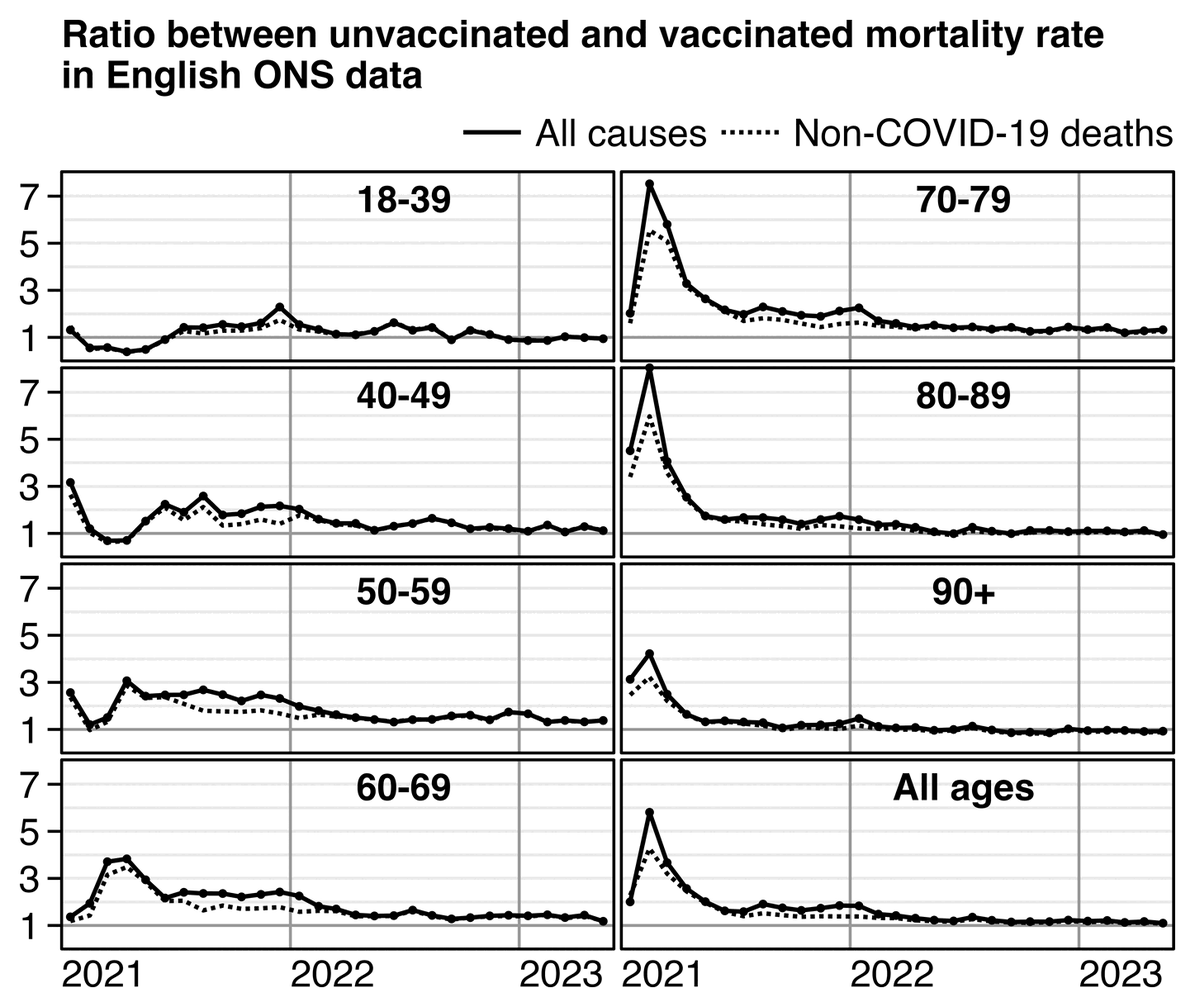
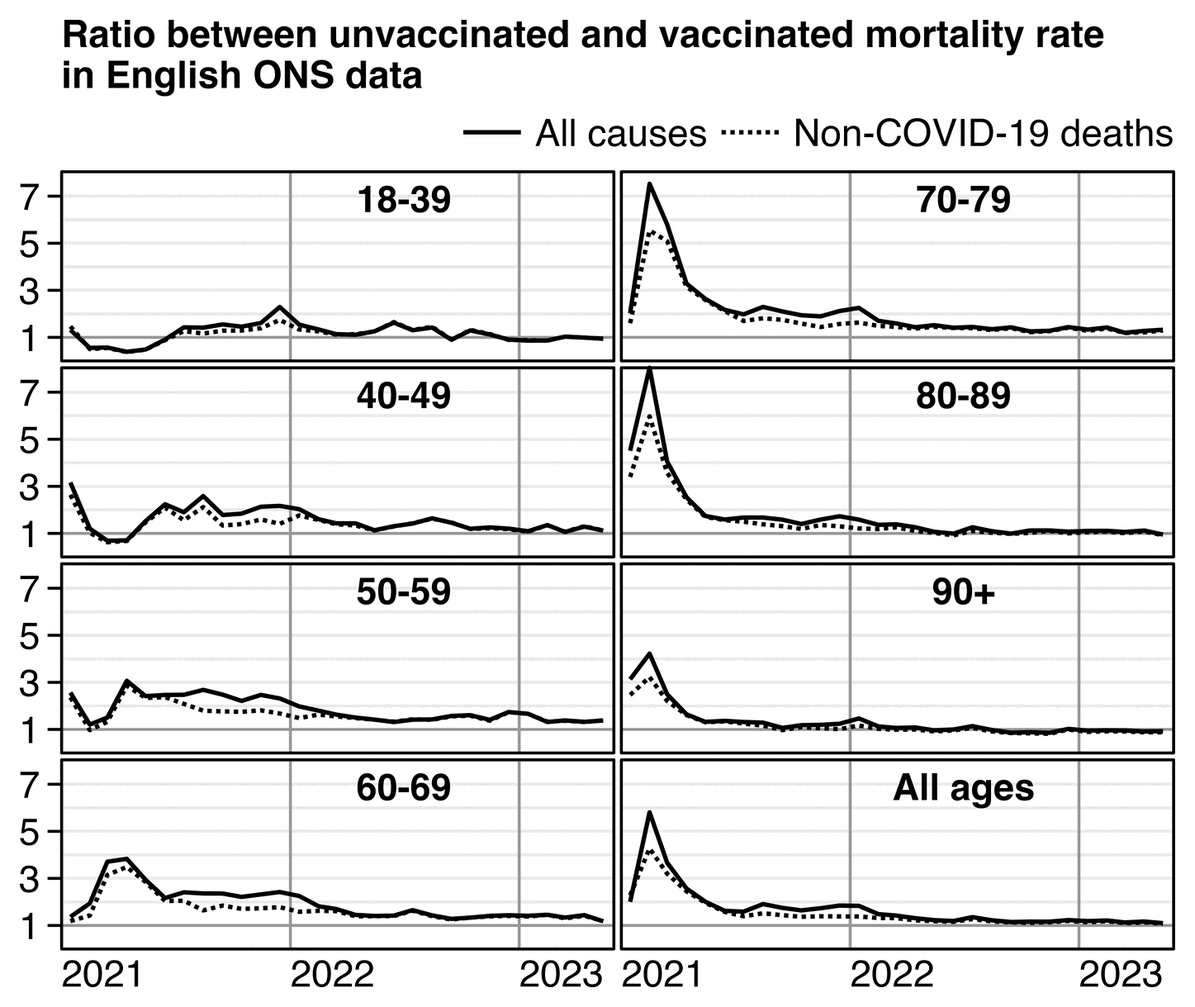
a

diff --git a/rootclaim4.html b/rootclaim4.html
@@ -1,0 +1,254 @@
+<!doctype html>
+<meta charset=utf-8>
+<style>
+body{background:#2f2f2f;color:white;margin:6px 6px 6px max(6px, min(50vw - 270px, 100vw - 1100px))}
+body,td,th{font:14.5px/1.3 Arial,Helvetica,'Liberation Sans',sans-serif}
+p{max-width:540px}
+ul,ol{max-width:500px}
+.toc{max-width:none}
+h1,h2,h3,h2 a,h3 a,h2 a:visited,h3 a:visited{font-weight:normal;color:white}
+h1{font-size:2.1em;margin-top:.9em}
+h2{font-size:1.7em}
+h3{font-size:1.3em}
+h4{font-size:1.1em}
+a{color:hsl(220,100%,75%)}
+a:visited{color:hsl(270,100%,75%)}
+pre,code{white-space:pre-wrap;word-wrap:break-word;font:14px Menlo,'DejaVu Sans Mono','Liberation Mono',Consolas,monospace;background:#4a4a4a;color:white}
+pre{padding:4px}
+code{padding:1px}
+table{border-collapse:collapse}
+td,th{border:1px solid #555;padding:2px 4px}
+th{background:#444;text-align:left;font-weight:bold}
+img{max-width:100%}
+blockquote{margin:0;padding-left:40px;margin-right:0;overflow-x:hidden}
+blockquote p{max-width:480px}
+blockquote p:first-child{margin-top:0}
+blockquote p:last-child{margin-bottom:0}
+blockquote blockquote p{max-width:440px}
+blockquote blockquote blockquote p{max-width:400px}
+blockquote,.quote,blockquote h1,blockquote h2,blockquote h3{color:hsl(50,100%,85%)}
+blockquote .quote,blockquote blockquote,.quote .quote{color:hsl(45,55%,65%)}
+blockquote blockquote blockquote,blockquote blockquote .quote,blockquote .quote .quote,.quote .quote .quote{color:hsl(40,40%,50%)}
+.spoiler button{width:90px;border:0;font-family:inherit;font-size:inherit;color:inherit;margin:0;background:#4a4a4a;padding:4px 0px;outline:none;cursor:pointer}
+.spoiler pre{display:none;margin-top:0}
+.red,.red .quote{color:hsl(0,100%,77%)!important}
+.comment{color:hsl(0,100%,80%) !important}
+.width1{max-width:100px}
+.width2{max-width:200px}
+.width3{max-width:300px}
+.width4{max-width:400px}
+.width5{max-width:500px}
+.width6{max-width:600px}
+.width7{max-width:700px}
+.width8{max-width:800px}
+.width9{max-width:900px}
+.width10{max-width:1000px}
+.width11{max-width:1100px}
+.width12{max-width:1200px}
+.width13{max-width:1300px}
+.width14,.width0{max-width:1400px}
+.width00{margin-left:calc(-1 * max(0px, min(50vw - 270px, 100vw - 1100px)) + 6px)}
+.width00 img,.width0 img{margin:0 -1.5px -1.5px 0;vertical-align:bottom}
+.blockimg{max-width:calc(100vw - min(50vw - 270px, 100vw - 1100px) - 40px - 6px)}
+@media print{
+  body{background:white;color:black;margin:0px;zoom:1;print-color-adjust:exact;-webkit-print-color-adjust:exact}
+  a{color:#0000EE}a:visited{color:#551A8B}
+  h1,h2,h2 a,h3 a,h2 a:visited,h3 a:visited{color:black}
+  pre,code{background:#ccc;color:black;font-size:13px}
+  th{background:#ddd}
+  blockquote,.quote{color:hsl(30,65%,30%)}
+  blockquote .quote,blockquote blockquote,.quote .quote{color:hsl(30,45%,50%)}
+  blockquote blockquote blockquote,blockquote .quote .quote,.quote .quote .quote{color:hsl(30,70%,60%)}
+  .spoiler{display:none}
+}
+</style>
+<title>Rootclaim vaccine debate between Steve Kirsch and Saar Wilf (part 4)</title>
+<h1>Rootclaim vaccine debate between Steve Kirsch and Saar Wilf (part 4) - <a href=index.html>sars2.net</a></h1>
+<p>Other parts: <a href=rootclaim.html>rootclaim.html</a>, <a href=rootclaim2.html>rootclaim2.html</a>, <a href=rootclaim3.html>rootclaim3.html</a>.</p>
+<h2 id=Contents><a href=#Contents>Contents</a></h2>
+<ul class=toc>
+<li><a href=#Ratio_between_unvaccinated_and_vaccinated_ASMR_in_ONS_data>Ratio between unvaccinated and vaccinated ASMR in ONS data</a></li>
+</ul>
+
+<h2>
+<a href=#Ratio_between_unvaccinated_and_vaccinated_ASMR_in_ONS_data id=Ratio_between_unvaccinated_and_vaccinated_ASMR_in_ONS_data>Ratio between unvaccinated and vaccinated ASMR in ONS data</a>
+</h2>
+<p>Kirsch posted this table of the English ONS data, where he pointed out that in April to May 2021 when there was a low number of COVID cases, the ratio between unvaccinated and vaccinated ASMR was higher than in December 2021 to February 2022 when there was a high number of COVID cases: [<a href="https://kirschsubstack.com/p/official-uk-ons-data-shows-the-covid">https://kirschsubstack.com/p/official-uk-ons-data-shows-the-covid</a>]</p>
+<div class="width7">
+<img src="i/rootclaim-onsrate-1.png">
+</div>
+<p>However in April to May 2021 there were still many people who had been recently vaccinated, so vaccinated people were still heavily impacted by the temporal healthy vaccinee effect (which is a term coined by Jeffrey Morris for the stronger form of HVE which lasts for the first weeks or months after vaccination, as opposed to the inherent HVE that remains in place even long after vaccination).</p>
+<p>From the plot below you can roughly see the magnitude of the HVE from the dashed line which shows non-COVID ASMR. The plot below also shows that the ratio between unvaccinated and vaccinated ASMR was in fact elevated during the Delta peak in August 2021 and the COVID wave that peaked in December 2021 to January 2022. But in October 2021 when there was a lower number of COVID deaths than in the surrounding months, the ratio between unvaccinated and vaccinated ASMR was also lower than in the surrounding months:</p>
+<div class="width6">
+<img src="i/rootclaim-czechrate-6.png">
+</div>
+<div class="spoiler">
+<button>
+Show code
+</button>
+<pre>t=fread(&quot;http://sars2.net/f/ons.csv&quot;)
+t=rbind(t[ed==7&amp;month&lt;=&quot;2021-03&quot;],t[ed==9])[cause!=&quot;Deaths involving COVID-19&quot;]
+
+t[,x:=as.Date(paste0(month,&quot;-15&quot;))]
+t[,vax:=factor(status!=&quot;Unvaccinated&quot;,,c(&quot;Unvaccinated&quot;,&quot;Vaccinated&quot;))]
+a=t[age!=&quot;Total&quot;,.(cmr=sum(dead)/sum(pop)),.(age,vax,x,cause)]
+
+p=a[,.(y=cmr[1]/cmr[2]),.(age,x,cause)]
+p=rbind(p,t[age==&quot;Total&quot;&amp;status%like%&quot;accin&quot;,.(y=asmr[1]/asmr[2],age=&quot;All ages&quot;),.(x,cause)])
+
+xstart=as.Date(&quot;2021-1-1&quot;);xend=as.Date(&quot;2023-6-1&quot;);xbreak=seq(xstart,xend,&quot;year&quot;);yend=max(p$y)
+
+ggplot(p)+
+facet_wrap(~age,dir=&quot;v&quot;,ncol=2)+
+geom_hline(yintercept=2:8,color=&quot;gray91&quot;,linewidth=.4)+
+geom_hline(yintercept=1,color=&quot;gray60&quot;,linewidth=.4)+
+geom_vline(xintercept=seq(xstart,xend,&quot;year&quot;),color=&quot;gray60&quot;,linewidth=.4)+
+geom_rect(data=p[,max(y),age],aes(xmin=xstart,xmax=xend,ymin=0,ymax=yend),linewidth=.4,fill=NA,color=&quot;black&quot;,lineend=&quot;square&quot;)+
+geom_line(aes(x,y,linetype=cause),linewidth=.6)+
+geom_text(data=p[,max(y),age],aes(x=as.Date(&quot;2022-7-1&quot;),y=yend,label=age),hjust=.5,fontface=2,vjust=1.5,size=3.8)+
+labs(x=NULL,y=NULL,title=&quot;Ratio between unvaccinated and vaccinated mortality rate\nin English ONS data&quot;)+
+scale_x_continuous(limits=c(xstart-.5,xend+.5),breaks=xbreak,labels=year(xbreak))+
+scale_y_continuous(breaks=seq(1,7,2))+
+scale_linetype_manual(values=c(&quot;solid&quot;,&quot;11&quot;))+
+scale_alpha_manual(values=c(1,0),guide=&quot;none&quot;)+
+coord_cartesian(clip=&quot;off&quot;,expand=F)+
+guides(color=guide_legend(order=1),linetype=guide_legend(order=2))+
+theme(axis.text=element_text(hjust=0,size=11,color=&quot;black&quot;),
+  axis.title=element_text(size=11,face=2),
+  axis.text.x=element_text(margin=margin(3)),
+  axis.ticks=element_line(linewidth=.4,color=&quot;black&quot;),
+  axis.ticks.length.x=unit(0,&quot;pt&quot;),
+  axis.ticks.length.y=unit(4,&quot;pt&quot;),
+  legend.background=element_blank(),
+  legend.box.spacing=unit(0,&quot;pt&quot;),
+  legend.direction=&quot;horizontal&quot;,
+  legend.justification=&quot;right&quot;,
+  legend.key=element_blank(),
+  legend.key.height=unit(13,&quot;pt&quot;),
+  legend.key.width=unit(21,&quot;pt&quot;),
+  legend.margin=margin(,,5),
+  legend.position=&quot;top&quot;,
+  legend.spacing.x=unit(2,&quot;pt&quot;),
+  legend.spacing.y=unit(0,&quot;pt&quot;),
+  legend.text=element_text(size=11,vjust=.5),
+  legend.title=element_blank(),
+  panel.background=element_blank(),
+  panel.spacing=unit(2,&quot;pt&quot;),
+  plot.margin=margin(5,5,5,5),
+  plot.title=element_text(size=11,face=2,margin=margin(2,,4)),
+  strip.background=element_blank(),
+  strip.text=element_blank())
+ggsave(&quot;1.png&quot;,width=4.8,height=4.1,dpi=300*4)
+system(paste0(&quot;magick 1.png -trim -resize 25% -bordercolor white -border 24 -colors 256 1.png&quot;))</pre>
+</div>
+<p>The next plot shows that there was a period with elevated COVID deaths that lasted from around August 2021 until January 2022. But between January and February 2022 when there was a big drop in COVID deaths, there was also a clear drop in the ratio of all-cause ASMR between unvaccinated and vaccinated people:</p>
+<div class="width6">
+<img src="i/rootclaim-czechrate-5.png">
+</div>
+<div class="spoiler">
+<button>
+Show code
+</button>
+<pre>library(data.table);library(ggplot2)
+
+t=fread(&quot;http://sars2.net/f/ons.csv&quot;)
+t=rbind(t[ed==7&amp;month&lt;=&quot;2021-03&quot;],t[ed==9])
+t[,x:=as.Date(paste0(month,&quot;-15&quot;))]
+t[,vax:=factor(status!=&quot;Unvaccinated&quot;,,c(&quot;Unvaccinated&quot;,&quot;Vaccinated&quot;))]
+a=t[age!=&quot;Total&quot;,.(y=sum(dead)/sum(pop)*1e5),.(age,x,vax,cause)]
+a=rbind(a,t[age==&quot;Total&quot;&amp;status%like%&quot;accin&quot;,.(x,y=asmr,age=&quot;All ages&quot;,vax,cause)])
+
+p=a[cause!=&quot;Non-COVID-19 deaths&quot;]
+p[cause==&quot;Deaths involving COVID-19&quot;,cause:=&quot;COVID deaths&quot;]
+
+xstart=as.Date(&quot;2021-1-1&quot;);xend=as.Date(&quot;2023-6-1&quot;);xbreak=seq(xstart,xend,&quot;year&quot;)
+
+ggplot(p)+
+facet_wrap(~age,dir=&quot;v&quot;,scales=&quot;free_y&quot;,ncol=2)+
+geom_vline(xintercept=seq(xstart,xend,&quot;year&quot;),color=&quot;gray60&quot;,linewidth=.4)+
+geom_rect(data=p[,max(y),age],aes(xmin=xstart,xmax=xend,ymin=0,ymax=V1),linewidth=.4,fill=NA,color=&quot;black&quot;,lineend=&quot;square&quot;)+
+geom_line(aes(x,y,linetype=cause,color=vax))+
+geom_text(data=p[,max(y),age],aes(x=as.Date(&quot;2022-7-1&quot;),y=V1,label=age),hjust=.5,fontface=2,vjust=1.5,size=3.8)+
+labs(x=NULL,y=NULL,title=&quot;Monthly mortality rates in English ONS data&quot;)+
+scale_x_continuous(limits=c(xstart-.5,xend+.5),breaks=xbreak,labels=year(xbreak))+
+scale_y_continuous(breaks=\(x){y=pretty(x,4);y[y&lt;.85*max(x)]},labels=\(x)ifelse(x&lt;1000,x,paste0(x/1e3,&quot;k&quot;)))+
+scale_color_manual(values=c(&quot;#66f&quot;,&quot;#f66&quot;,&quot;black&quot;))+
+scale_linetype_manual(values=c(&quot;solid&quot;,&quot;11&quot;))+
+scale_alpha_manual(values=1:0)+
+coord_cartesian(clip=&quot;off&quot;,expand=F)+
+guides(color=guide_legend(order=1),linetype=guide_legend(order=2))+
+theme(axis.text=element_text(hjust=0,size=11,color=&quot;black&quot;),
+  axis.title=element_text(size=11,face=2),
+  axis.text.x=element_text(margin=margin(3)),
+  axis.ticks=element_line(linewidth=.4,color=&quot;black&quot;),
+  axis.ticks.length.x=unit(0,&quot;pt&quot;),
+  axis.ticks.length.y=unit(4,&quot;pt&quot;),
+  legend.background=element_rect(color=&quot;black&quot;,linewidth=.4),
+  legend.box.margin=margin(,,2),
+  legend.box.spacing=unit(0,&quot;pt&quot;),
+  legend.direction=&quot;horizontal&quot;,
+  legend.justification=&quot;right&quot;,
+  legend.key=element_blank(),
+  legend.key.height=unit(13,&quot;pt&quot;),
+  legend.key.width=unit(21,&quot;pt&quot;),
+  legend.margin=margin(3,4,3,3),
+  legend.position=&quot;top&quot;,
+  legend.spacing.x=unit(2,&quot;pt&quot;),
+  legend.spacing.y=unit(0,&quot;pt&quot;),
+  legend.text=element_text(size=11,vjust=.5),
+  legend.title=element_blank(),
+  panel.background=element_blank(),
+  panel.spacing=unit(2,&quot;pt&quot;),
+  plot.margin=margin(5,5,5,5),
+  plot.title=element_text(hjust=.5,size=11,face=2,margin=margin(2,,4)),
+  strip.background=element_blank(),
+  strip.text=element_blank())
+ggsave(&quot;1.png&quot;,width=5.47,height=4.3,dpi=300*4)
+
+sub=&quot;The values for individual age groups are crude mortality rates per 100,000 person-years, and the values for all ages are age-standardized mortality rates per 100,000 person-years. The data was taken from Tables 1 and 2 of the ONS dataset \&quot;Deaths involving COVID-19 by vaccination status, England\&quot;. Data for the first three months of 2021 was taken from the July 2022 edition and data for other months was taken from the August 2023 edition. People are counted as vaccinated on the day of the first dose. COVID deaths are deaths where COVID was mentioned anywhere on the death certificate.&quot;
+system(paste0(&quot;mogrify -trim 1.png;magick 1.png \\( -size `identify -format %w 1.png`x -font Arial -interline-spacing -3 -pointsize $[43*4] caption:&#39;&quot;,gsub(&quot;&#39;&quot;,&quot;&#39;\\\\&#39;&quot;,sub),&quot;&#39; -splice x80 \\) -append -resize 25% -bordercolor white -border 24 -colors 256 1.png&quot;))</pre>
+</div>
+<p>Someone in Kirsch's Substack comments asked why February 2021 was an outlier in Kirsch's table, because in his table the ratio between unvaccinated and vaccinated ASMR was about 2.0 in January 2021, 5.8 in February, 3.7 in March, and 2.6 in April. I pointed out that in February a large part of vaccinated people had been vaccinated in recent weeks, and the ONS dataset has a very low number of deaths in the first 2 weeks after vaccination: [<a href=stat.html#Plot_deaths_by_weeks_after_vaccination_and_age_group>stat.html#Plot_deaths_by_weeks_after_vaccination_and_age_group</a>]</p>
+<div class="width8">
+<img src="i/stat-onsweeks.png">
+</div>
+<p>I also pointed out that there was high COVID mortality in both January and February 2021. In January 2021 COVID ASMR accounted for about half of total ASMR in both unvaccinated and vaccinated people, but in February COVID ASMR now accounted for about 41% of total ASMR in unvaccinated people but only about 20% of total ASMR in vaccinated people, so vaccinated people had a much bigger drop in the percentage between January and February. I think it's because in Janury 2021 many vaccinated people had been vaccinated so recently that there had not yet been enough time for the immune response to build up after vaccination. But in February 2021 a larger part of vaccinated people had been vaccinated at least 2 or 3 weeks ago so the vaccines were now more effective. So the COVID deaths increased the ratio between unvaccinated and vaccinated ASMR more in February than January:</p>
+<pre>ons=fread(&quot;https://sars2.net/f/ons.csv&quot;)[ed==7&amp;age==&quot;Total&quot;]
+o=ons[status%like%&quot;accin&quot;,asmr[cause==&quot;Deaths involving COVID-19&quot;]/asmr[cause==&quot;All causes&quot;]*100,.(month,status)]
+o[status==&quot;Ever vaccinated&quot;,status:=&quot;Vaccinated&quot;]
+o[,.(unvaccinated=V1[1],vaccinated=V1[2]),month][,ratio:=unvaccinated/vaccinated]|&gt;mutate_if(is.double,round,1)|&gt;print(r=F)
+#   month unvaccinated vaccinated ratio
+# 2021-01         47.3       53.7   0.9
+# 2021-02         41.3       20.3   2.0
+# 2021-03         17.9        6.0   3.0
+# 2021-04          6.3        1.8   3.5
+# 2021-05          2.6        0.7   3.8
+# 2021-06          3.5        0.8   4.6
+# 2021-07         13.5        2.6   5.3
+# 2021-08         23.6        5.0   4.7
+# 2021-09         22.1        6.6   3.3
+# 2021-10         19.8        6.4   3.1
+# 2021-11         24.7        6.5   3.8
+# 2021-12         27.7        5.0   5.5
+# 2022-01         32.3       10.1   3.2
+# 2022-02         18.7        7.4   2.5
+# 2022-03         14.9        7.5   2.0
+# 2022-04         17.0        9.6   1.8
+# 2022-05          8.9        4.3   2.1</pre>
+<p>Another reason why the ratio between unvaccinated and vaccinated ASMR was higher in February than January is probably because vulnerable groups of people were priorized for early vaccination.</p>
+<p>In the next plot of Dutch CBS data if you look at the left panel which shows people who are not in long-term care, the black line shows that the ratio between unvaccinated and vaccinated ASMR was clearly elevated during the COVID wave in the winter of 2021-2022. But the black line was still higher in May 2021 than in the winter of 2021-2022, because the HVE was stronger in May 2021. You can estimate the magnitude of the HVE based on the gray line which shows the ratio of non-COVID ASMR: [<a href=rootclaim3.html#Comparison_to_Dutch_CBS_data>rootclaim3.html#Comparison_to_Dutch_CBS_data</a>]</p>
+<div class="width6">
+<img src="i/rootclaim-cbs.png">
+</div>
+<script>
+let q=document.querySelectorAll('a,code,pre')
+for(let i=0;e=q[i];i++)e.innerHTML=e.innerHTML.replace(/(\w{60,})/g,x=>x.replace(/./g,'$&<wbr>')).replace(/([\041-\045\047-\057\072\075\077-\100\133-\137\173-\176])/g,'$1<wbr>')
+
+document.querySelectorAll('.spoiler button').forEach(x=>{x.addEventListener('click',function(){
+  let block=this.nextElementSibling
+  if(window.getComputedStyle(block).display=='none'){block.style.display='block';this.textContent='Hide code'}
+  else{block.style.display='none';this.textContent='Show code'}
+})})
+
+document.querySelectorAll('pre').forEach(x=>x.innerHTML=x.textContent.replace(/((^| )# [^\n]*|^#$)/mg,"<span class=comment>$1</span>"))
+</script>

diff --git a/rootclaim3.html b/rootclaim3.html
@@ -64,7 +64,7 @@ blockquote blockquote blockquote,blockquote blockquote .quote,blockquote .quote 
 </style>
 <title>Rootclaim vaccine debate between Steve Kirsch and Saar Wilf (part 3)</title>
 <h1>Rootclaim vaccine debate between Steve Kirsch and Saar Wilf (part 3) - <a href=index.html>sars2.net</a></h1>
-<p>Other parts: <a href=rootclaim.html>rootclaim.html</a>, <a href=rootclaim2.html>rootclaim2.html</a>.</p>
+<p>Other parts: <a href=rootclaim.html>rootclaim.html</a>, <a href=rootclaim2.html>rootclaim2.html</a>, <a href=rootclaim4.html>rootclaim4.html</a>.</p>
 <h2 id=Contents><a href=#Contents>Contents</a></h2>
 <ul class=toc>
 <li><a href=#Comments_to_general_topics_brought_up_during_the_debate>Comments to general topics brought up during the debate</a>
@@ -1542,8 +1542,8 @@ year   vax asmr # ASMR per 100,000 person-years in May of each year
 <a href=#Comparison_to_English_ONS_data id=Comparison_to_English_ONS_data>Comparison to English ONS data</a>
 </h3>
 <p>In the English ONS data, the ratio between unvaccinated and vaccinated mortality is elevated during the COVID wave that peaks in August 2021 and the wave that peaks in December 2021 to January 2022. There is a small dent in the ratio during the months in between, but it's not too big because unvaccinated people also have fairly high COVID mortality between the two peaks:</p>
-<div class="width6">
-<img src="i/rootclaim-czechrate-5.png">
+<div>
+<img src=i/rootclaim-czechrate-5.png class=width6><img src=i/rootclaim-czechrate-6.png class=width6>
 </div>
 <div class="spoiler">
 <button>
@@ -1607,71 +1607,6 @@ ggsave(&quot;1.png&quot;,width=5.47,height=4.3,dpi=300*4)
 
 sub=&quot;The values for individual age groups are crude mortality rates per 100,000 person-years, and the values for all ages are age-standardized mortality rates per 100,000 person-years. The data was taken from Tables 1 and 2 of the ONS dataset \&quot;Deaths involving COVID-19 by vaccination status, England\&quot;. Data for the first three months of 2021 was taken from the July 2022 edition and data for other months was taken from the August 2023 edition. People are counted as vaccinated on the day of the first dose. COVID deaths are deaths where COVID was mentioned anywhere on the death certificate.&quot;
 system(paste0(&quot;mogrify -trim 1.png;magick 1.png \\( -size `identify -format %w 1.png`x -font Arial -interline-spacing -3 -pointsize $[43*4] caption:&#39;&quot;,gsub(&quot;&#39;&quot;,&quot;&#39;\\\\&#39;&quot;,sub),&quot;&#39; -splice x80 \\) -append -resize 25% -bordercolor white -border 24 -colors 256 1.png&quot;))</pre>
-</div>
-<div class="width6">
-<img src="i/rootclaim-czechrate-6.png">
-</div>
-<div class="spoiler">
-<button>
-Show code
-</button>
-<pre>library(data.table);library(ggplot2)
-
-t=fread(&quot;http://sars2.net/f/ons.csv&quot;)
-t=rbind(t[ed==7&amp;month&lt;=&quot;2021-03&quot;],t[ed==9])[cause!=&quot;Deaths involving COVID-19&quot;]
-
-t[,x:=as.Date(paste0(month,&quot;-15&quot;))]
-t[,vax:=factor(status!=&quot;Unvaccinated&quot;,,c(&quot;Unvaccinated&quot;,&quot;Vaccinated&quot;))]
-a=t[age!=&quot;Total&quot;,.(cmr=sum(dead)/sum(pop)),.(age,vax,x,cause)]
-
-p=a[,.(y=cmr[1]/cmr[2]),.(age,x,cause)]
-p=rbind(p,t[age==&quot;Total&quot;&amp;status%like%&quot;accin&quot;,.(y=asmr[1]/asmr[2],age=&quot;All ages&quot;),.(x,cause)])
-
-xstart=as.Date(&quot;2021-1-1&quot;);xend=as.Date(&quot;2023-6-1&quot;);xbreak=seq(xstart,xend,&quot;year&quot;);yend=max(p$y)
-
-ggplot(p)+
-facet_wrap(~age,dir=&quot;v&quot;,ncol=2)+
-geom_hline(yintercept=2:8,color=&quot;gray91&quot;,linewidth=.4)+
-geom_hline(yintercept=1,color=&quot;gray60&quot;,linewidth=.4)+
-geom_vline(xintercept=seq(xstart,xend,&quot;year&quot;),color=&quot;gray60&quot;,linewidth=.4)+
-geom_rect(data=p[,max(y),age],aes(xmin=xstart,xmax=xend,ymin=0,ymax=yend),linewidth=.4,fill=NA,color=&quot;black&quot;,lineend=&quot;square&quot;)+
-geom_line(aes(x,y,linetype=cause),linewidth=.6)+
-geom_point(aes(x,y,alpha=cause),stroke=0,size=1.2)+
-geom_text(data=p[,max(y),age],aes(x=as.Date(&quot;2022-7-1&quot;),y=yend,label=age),hjust=.5,fontface=2,vjust=1.5,size=3.8)+
-labs(x=NULL,y=NULL,title=&quot;Ratio between unvaccinated and vaccinated mortality rate\nin English ONS data&quot;)+
-scale_x_continuous(limits=c(xstart-.5,xend+.5),breaks=xbreak,labels=year(xbreak))+
-scale_y_continuous(breaks=seq(1,7,2))+
-scale_linetype_manual(values=c(&quot;solid&quot;,&quot;11&quot;))+
-scale_alpha_manual(values=c(1,0),guide=&quot;none&quot;)+
-coord_cartesian(clip=&quot;off&quot;,expand=F)+
-guides(color=guide_legend(order=1),linetype=guide_legend(order=2))+
-theme(axis.text=element_text(hjust=0,size=11,color=&quot;black&quot;),
-  axis.title=element_text(size=11,face=2),
-  axis.text.x=element_text(margin=margin(3)),
-  axis.ticks=element_line(linewidth=.4,color=&quot;black&quot;),
-  axis.ticks.length.x=unit(0,&quot;pt&quot;),
-  axis.ticks.length.y=unit(4,&quot;pt&quot;),
-  legend.background=element_blank(),
-  legend.box.spacing=unit(0,&quot;pt&quot;),
-  legend.direction=&quot;horizontal&quot;,
-  legend.justification=&quot;right&quot;,
-  legend.key=element_blank(),
-  legend.key.height=unit(13,&quot;pt&quot;),
-  legend.key.width=unit(21,&quot;pt&quot;),
-  legend.margin=margin(,,5),
-  legend.position=&quot;top&quot;,
-  legend.spacing.x=unit(2,&quot;pt&quot;),
-  legend.spacing.y=unit(0,&quot;pt&quot;),
-  legend.text=element_text(size=11,vjust=.5),
-  legend.title=element_blank(),
-  panel.background=element_blank(),
-  panel.spacing=unit(2,&quot;pt&quot;),
-  plot.margin=margin(5,5,5,5),
-  plot.title=element_text(size=11,face=2,margin=margin(2,,4)),
-  strip.background=element_blank(),
-  strip.text=element_blank())
-ggsave(&quot;1.png&quot;,width=4.8,height=4.1,dpi=300*4)
-system(paste0(&quot;magick 1.png -trim -resize 25% -bordercolor white -border 24 -colors 256 1.png&quot;))</pre>
 </div>
 <h3>
 <a href=#Comparison_to_Dutch_CBS_data id=Comparison_to_Dutch_CBS_data>Comparison to Dutch CBS data</a>
@@ -2691,7 +2626,7 @@ print(o,r=F)
 #   Delta  3397  439114        3.10
 # Omicron   958  453717        2.11
 #   Other    73   16101        1.84</pre>
-<p>In the code above the relative CFR was not adjusted for observation week, even though part of the reason why the CFR got lower over time was that more people gained natural immunity over time. However after adjusting for observation week, the relative CFR dropped to about 1.22 for Delta and 0.61 for Alpha, so the ratio between Delta and Alpha remained close to 2 like in my code above.</p>
+<p>In the code above the relative CFR was not adjusted for observation week, even though part of the reason why the CFR got lower over time was that more people gained natural immunity over time. After adjusting for observation week, the relative CFR dropped to about 1.22 for Delta and 0.61 for Alpha, so there was a big drop in the CFR for both variants, even though the ratio between Delta and Alpha still remained close to 2 like in my code above.</p>
 <h2>
 <a href=#Contributions_to_the_debate_by_other_people id=Contributions_to_the_debate_by_other_people>Contributions to the debate by other people</a>
 </h2>
@@ -3058,6 +2993,7 @@ v[VAX_TYPE==&quot;COVID19&quot;,.(reports=.N,meanage=mean(AGE_YRS,na.rm=T)),VAX_
 <p>Many of the deaths at VAERS are vaccine breakthrough deaths where someone died of COVID despite being vaccinated. And the excess deaths since 2020 have largely been due to COVID deaths. So if the ratio of deaths per dose at VAERS for Moderna and Pfizer reflected the ratio of vaccine breakthrough deaths, then your method might actually work to some extent to compare excess mortality between vaccine brands. But I don't think that's the case, because the majority of the reports that involve death at VAERS are not even breakthrough COVID deaths.</p>
 <p>But anyway, your ratio of 1.4 times higher deaths per doses was not even adjusted for age: <a href="https://kirschsubstack.com/p/vaers-lit-up-like-a-christmas-tree">https://kirschsubstack.com/p/vaers-lit-up-like-a-christmas-tree</a>. And in a semi-recent version of the VAERS data, the average age of reports that didn't have an age field missing was about 49 for Pfizer but 54 for Moderna.</p>
 </blockquote>
+<p>But anyway, Kirsch is supposed to have earlier shown that people who got a Moderna vaccine for their first dose had about 1.3 times higher all-cause mortality than people who got a Pfizer vaccine for their first dose. But now he seems to be saying that Moderna has only about 5% higher all-cause mortality than Pfizer (because 1.2 divided by 1.143 is about 1.050).</p>
 <h3>
 <a href=#Comparison_of_Moderna_and_Pfizer_in_record_level_data_from_the_United_States id=Comparison_of_Moderna_and_Pfizer_in_record_level_data_from_the_United_States>Comparison of Moderna and Pfizer in record-level data from the United States</a>
 </h3>

diff --git a/index.html b/index.html
@@ -67,7 +67,7 @@ blockquote blockquote blockquote,blockquote blockquote .quote,blockquote .quote 
 <h3>
 Statistics
 </h3>
-2025-02-28 - <a href=rootclaim3.html>Rootclaim vaccine debate between Steve Kirsch and Saar Wilf (part 3)</a><br> 2025-02-16 - <a href=beaudoin.html>Comments to John Beaudoin</a><br> 2025-01-27 - <a href=rootclaim2.html>Rootclaim vaccine debate between Steve Kirsch and Saar Wilf (part 2)</a><br> 2024-12-30 - <a href=rootclaim.html>Rootclaim vaccine debate between Steve Kirsch and Saar Wilf (part 1)</a><br> 2024-12-01 - <a href=ethical2.html>Comments to Ethical Skeptic (part 2)</a><br> 2024-11-26 - <a href=nopandemic2.html>Comments to no-pandemic theorists (part 2)</a><br> 2024-11-17 - <a href=dowd.html>Analysis by Ed Dowd's group Phinance Technologies</a><br> 2024-11-15 - <a href=statistic2.html>Comments about COVID statistics (part 2)</a><br> 2024-09-29 - <a href=connecticut.html>Record-level Medicare data from Connecticut published by Steve Kirsch</a><br> 2024-08-25 - <a href=uk.html>UK mortality and COVID statistics</a><br> 2024-08-08 - <a href=czech4.html>Czech record-level mortality data by vaccination status (part 4)</a><br> 2024-07-22 - <a href=czech3.html>Czech record-level mortality data by vaccination status (part 3)</a><br> 2024-07-22 - <a href=czech2.html>Czech record-level mortality data by vaccination status (part 2)</a><br> 2024-07-17 - <a href=czech.html>Czech record-level mortality data by vaccination status (part 1)</a><br> 2024-04-03 - <a href=ethical.html>Comments to Ethical Skeptic (part 1)</a><br> 2024-01-29 - <a href=statistic.html>Comments about COVID statistics (part 1)</a><br> 2023-12-02 - <a href=moar.html>New Zealand vaccination data released by database administrator Barry Young</a><br> 2023-09-13 - <a href=stat.html>R code for COVID statistics</a><br> 2023-09-09 - <a href=nopandemic.html>Comments to no-pandemic theorists (part 1)</a>
+2025-03-29 - <a href=rootclaim4.html>Rootclaim vaccine debate between Steve Kirsch and Saar Wilf (part 4)</a><br> 2025-02-28 - <a href=rootclaim3.html>Rootclaim vaccine debate between Steve Kirsch and Saar Wilf (part 3)</a><br> 2025-02-16 - <a href=beaudoin.html>Comments to John Beaudoin</a><br> 2025-01-27 - <a href=rootclaim2.html>Rootclaim vaccine debate between Steve Kirsch and Saar Wilf (part 2)</a><br> 2024-12-30 - <a href=rootclaim.html>Rootclaim vaccine debate between Steve Kirsch and Saar Wilf (part 1)</a><br> 2024-12-01 - <a href=ethical2.html>Comments to Ethical Skeptic (part 2)</a><br> 2024-11-26 - <a href=nopandemic2.html>Comments to no-pandemic theorists (part 2)</a><br> 2024-11-17 - <a href=dowd.html>Analysis by Ed Dowd's group Phinance Technologies</a><br> 2024-11-15 - <a href=statistic2.html>Comments about COVID statistics (part 2)</a><br> 2024-09-29 - <a href=connecticut.html>Record-level Medicare data from Connecticut published by Steve Kirsch</a><br> 2024-08-25 - <a href=uk.html>UK mortality and COVID statistics</a><br> 2024-08-08 - <a href=czech4.html>Czech record-level mortality data by vaccination status (part 4)</a><br> 2024-07-22 - <a href=czech3.html>Czech record-level mortality data by vaccination status (part 3)</a><br> 2024-07-22 - <a href=czech2.html>Czech record-level mortality data by vaccination status (part 2)</a><br> 2024-07-17 - <a href=czech.html>Czech record-level mortality data by vaccination status (part 1)</a><br> 2024-04-03 - <a href=ethical.html>Comments to Ethical Skeptic (part 1)</a><br> 2024-01-29 - <a href=statistic.html>Comments about COVID statistics (part 1)</a><br> 2023-12-02 - <a href=moar.html>New Zealand vaccination data released by database administrator Barry Young</a><br> 2023-09-13 - <a href=stat.html>R code for COVID statistics</a><br> 2023-09-09 - <a href=nopandemic.html>Comments to no-pandemic theorists (part 1)</a>
 </div>
 <h3>
 Bioinformatics

diff --git a/rootclaim.html b/rootclaim.html
@@ -64,7 +64,7 @@ blockquote blockquote blockquote,blockquote blockquote .quote,blockquote .quote 
 </style>
 <title>Rootclaim vaccine debate between Steve Kirsch and Saar Wilf (part 1)</title>
 <h1>Rootclaim vaccine debate between Steve Kirsch and Saar Wilf (part 1) - <a href=index.html>sars2.net</a></h1>
-<p>Other parts: <a href=rootclaim2.html>rootclaim2.html</a>, <a href=rootclaim3.html>rootclaim3.html</a>.</p>
+<p>Other parts: <a href=rootclaim2.html>rootclaim2.html</a>, <a href=rootclaim3.html>rootclaim3.html</a>, <a href=rootclaim4.html>rootclaim4.html</a>.</p>
 <h2 id=Contents><a href=#Contents>Contents</a></h2>
 <ul class=toc>
 <li><a href=#Comments_to_Kirschs_initial_arguments>Comments to Kirsch's initial arguments</a>

diff --git a/rootclaim2.html b/rootclaim2.html
@@ -64,7 +64,7 @@ blockquote blockquote blockquote,blockquote blockquote .quote,blockquote .quote 
 </style>
 <title>Rootclaim vaccine debate between Steve Kirsch and Saar Wilf (part 2)</title>
 <h1>Rootclaim vaccine debate between Steve Kirsch and Saar Wilf (part 2) - <a href=index.html>sars2.net</a></h1>
-<p>Other parts: <a href=rootclaim.html>rootclaim.html</a>, <a href=rootclaim3.html>rootclaim3.html</a>.</p>
+<p>Other parts: <a href=rootclaim.html>rootclaim.html</a>, <a href=rootclaim3.html>rootclaim3.html</a>, <a href=rootclaim4.html>rootclaim4.html</a>.</p>
 <h2 id=Contents><a href=#Contents>Contents</a></h2>
 <ul class=toc>
 <li><a href=#Third_round_of_arguments_by_Kirsch>Third round of arguments by Kirsch</a>
